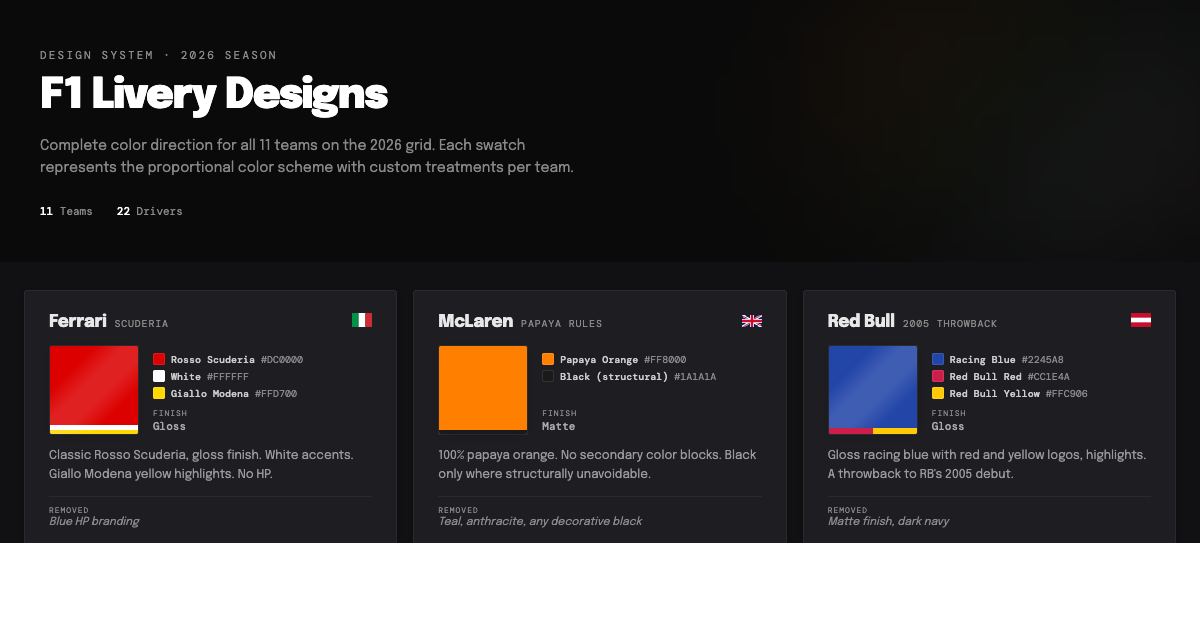
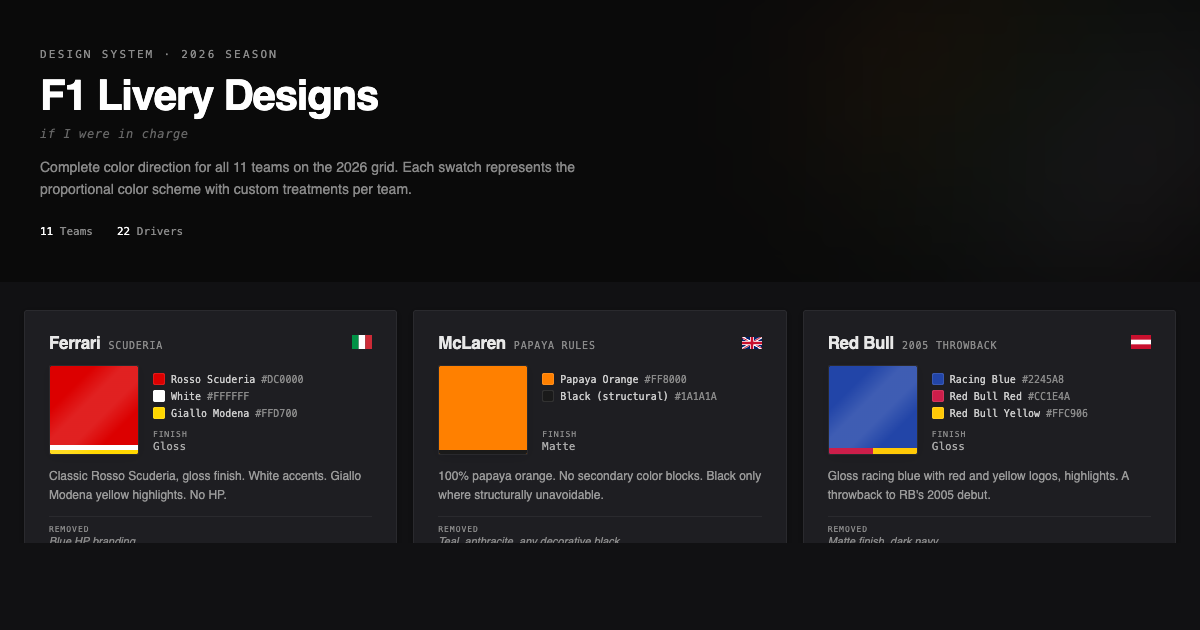
feat: add subtitle and fix OG preview background
Add "if I were in charge" subtitle below the page title.
Set body background-color to match app background, fixing
the white bar at the bottom of the OG preview image.

diff --git a/src/f1-livery-designs.jsx b/src/f1-livery-designs.jsx
@@ -568,6 +568,9 @@ export default function F1LiveryDesigns() {
           <h1 style={{ fontSize: "2.625rem", fontWeight: 900, color: "#fff", margin: 0, letterSpacing: "-0.03em", lineHeight: 1.1 }}>
             F1 Livery Designs
           </h1>
+          <div style={{ fontFamily: "'DM Mono', monospace", fontSize: "0.75rem", color: "#666", marginTop: 8, fontStyle: "italic", letterSpacing: "0.05em" }}>
+            if I were in charge
+          </div>
           <p style={{ fontSize: "0.875rem", color: "#888", marginTop: 16, maxWidth: 540, lineHeight: 1.55 }}>
             Complete color direction for all 11 teams on the 2026 grid.
             Each swatch represents the proportional color scheme with custom

diff --git a/src/index.css b/src/index.css
@@ -1,3 +1,4 @@
 body {
   margin: 0;
+  background-color: #111113;
 }
